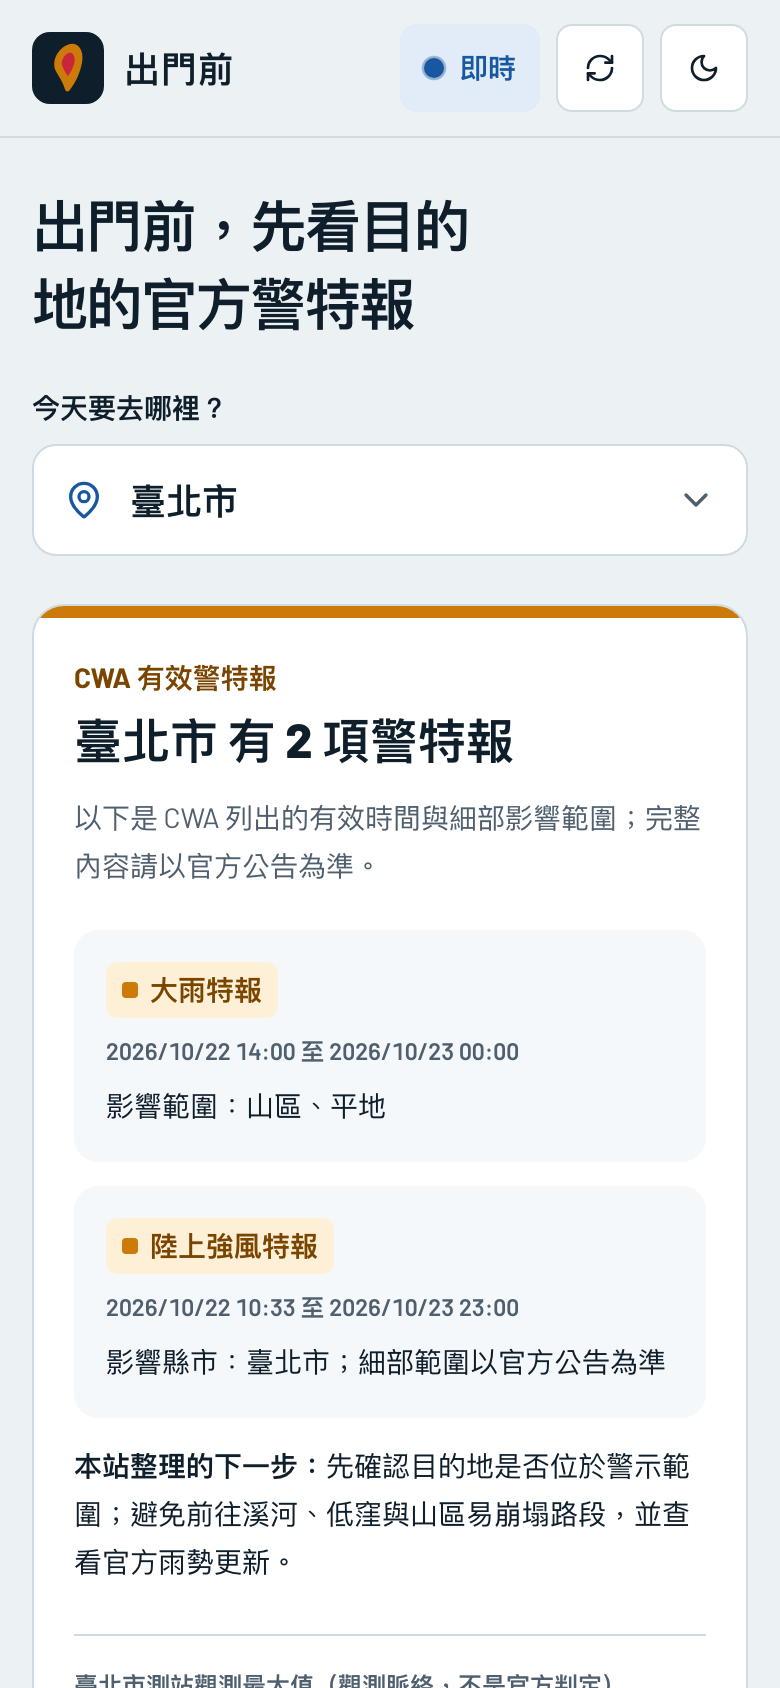
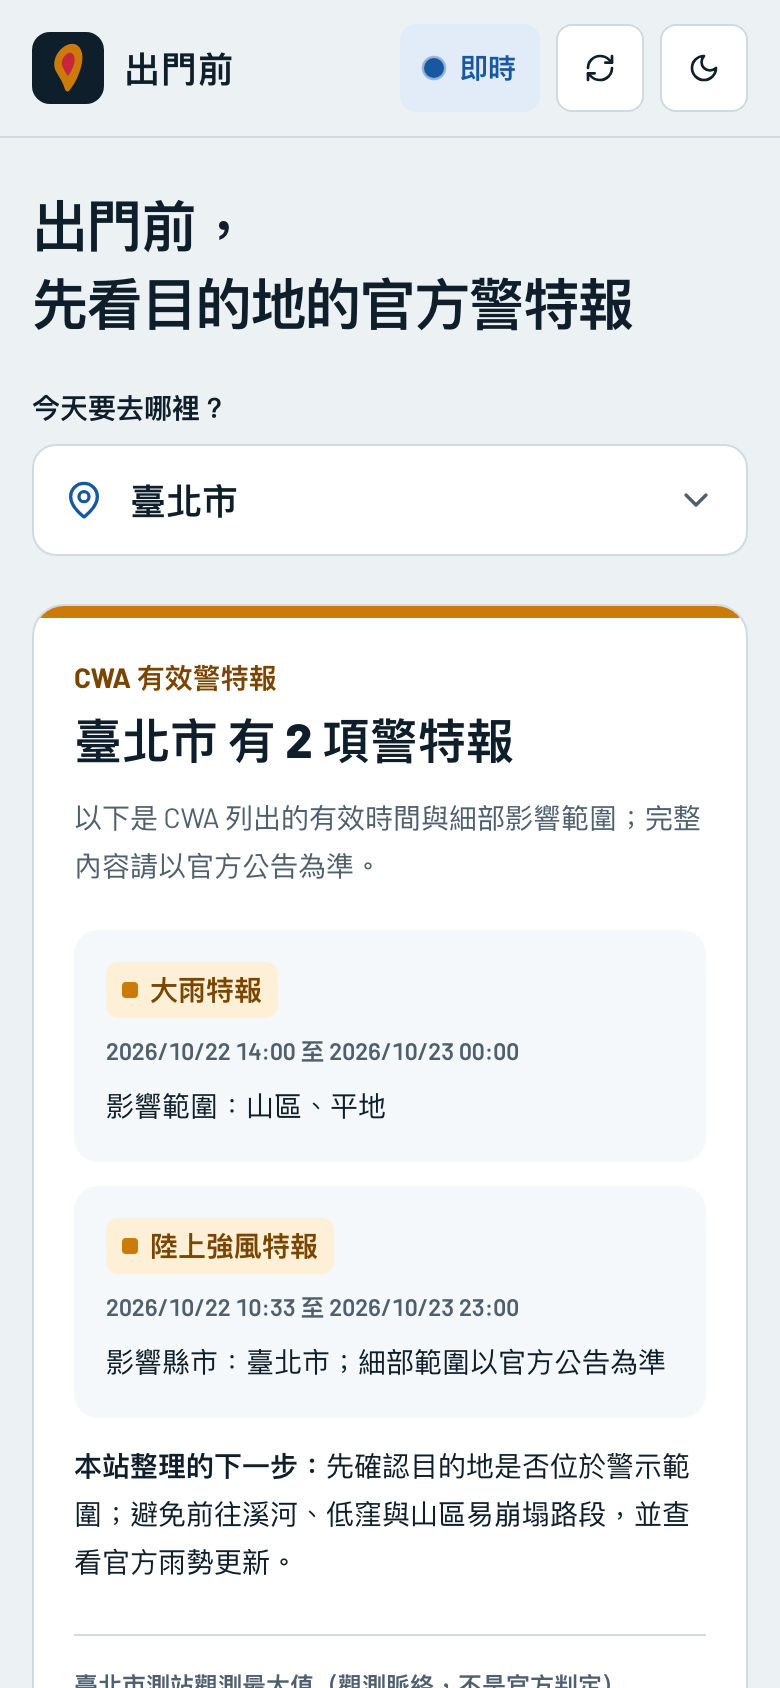
fix: break Chinese headings at phrases, not mid-word
Headings use word-break: keep-all with balanced wrapping so the hero
reads 「出門前，／先看目的地的官方警特報」 instead of splitting 目的地;
the hero size clamps on very narrow phones so it still fits at 320px.

Changed region(s): [[0.0308, 0.0924, 0.8308, 0.2156]]

diff --git a/src/App.tsx b/src/App.tsx
@@ -416,7 +416,7 @@ function DestinationPanel({
   return (
     <div className="flex min-w-0 flex-col gap-6">
       <div>
-        <h1 className="text-balance text-[1.75rem] font-black leading-snug tracking-tight sm:text-4xl lg:text-[2.6rem] lg:leading-[1.2]">
+        <h1 className="text-[clamp(1.5rem,7.2vw,1.75rem)] font-black leading-snug tracking-tight sm:text-4xl lg:text-[2.6rem] lg:leading-[1.2]">
           出門前，先看目的地的官方警特報
         </h1>
         <p className={`mt-3 max-w-xl text-base leading-7 text-muted ${selectedCountyName ? "hidden sm:block" : ""}`}>
@@ -455,7 +455,7 @@ function DestinationPanel({
         <div className={`h-1.5 ${TONE_BAR[presentation.tone]}`} aria-hidden="true" />
         <div className="p-5 sm:p-6">
           <p className={`text-sm font-bold ${TONE_TEXT[presentation.tone]}`}>{presentation.eyebrow}</p>
-          <h2 className="mt-1.5 text-balance text-2xl font-black leading-tight sm:text-3xl">{presentation.title}</h2>
+          <h2 className="mt-1.5 text-2xl font-black leading-tight sm:text-3xl">{presentation.title}</h2>
           <p className="mt-3 text-sm leading-6 text-muted">{presentation.detail}</p>
           {!selectedCountyName ? (
             // Always rendered (with interim text) so the card keeps its height.

diff --git a/src/index.css b/src/index.css
@@ -86,6 +86,16 @@ a {
   -webkit-tap-highlight-color: transparent;
 }
 
+/* Chinese headings break at punctuation and spaces rather than mid-word
+   (e.g. never split 目的地); anywhere-wrapping is only a last resort. */
+h1,
+h2,
+h3 {
+  word-break: keep-all;
+  overflow-wrap: anywhere;
+  text-wrap: balance;
+}
+
 button:focus-visible,
 a:focus-visible,
 select:focus-visible,
